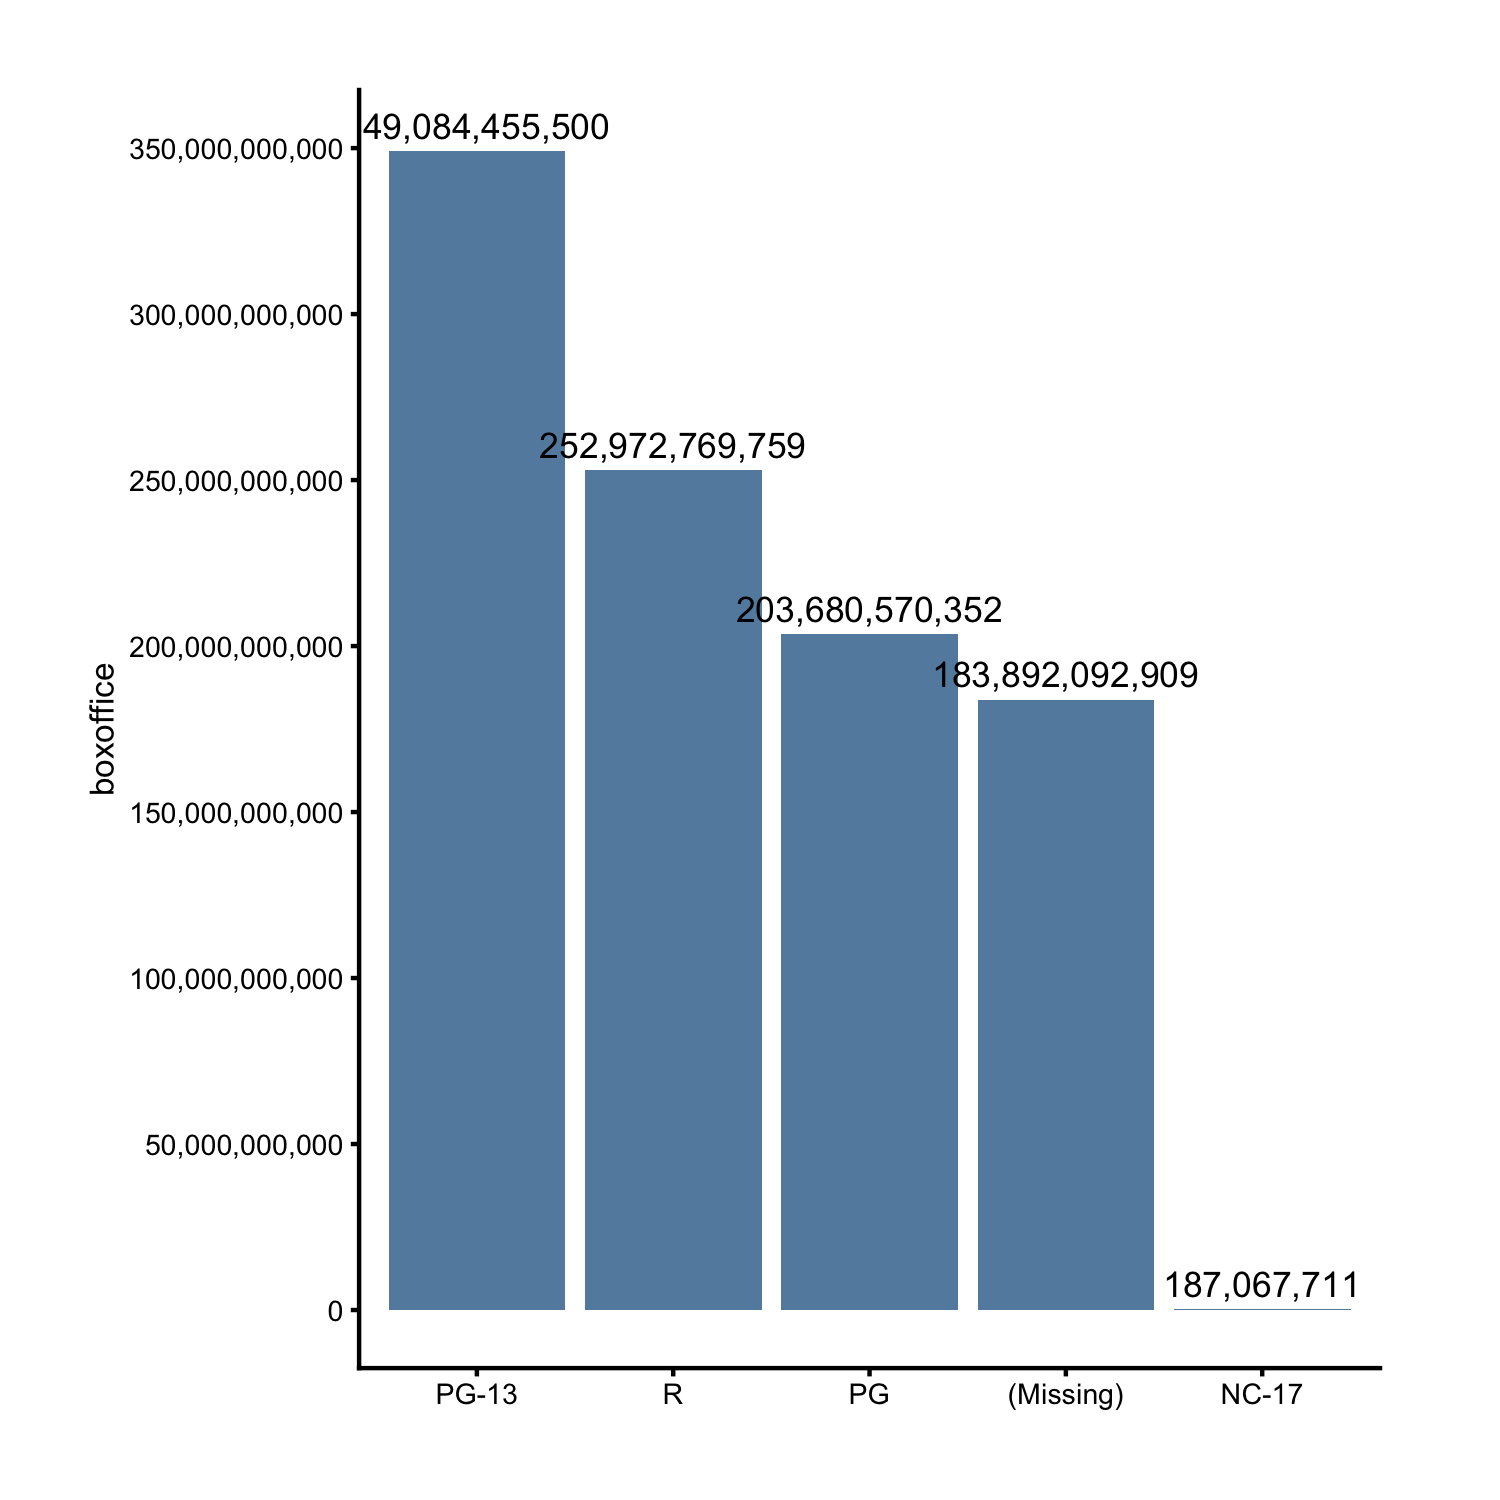
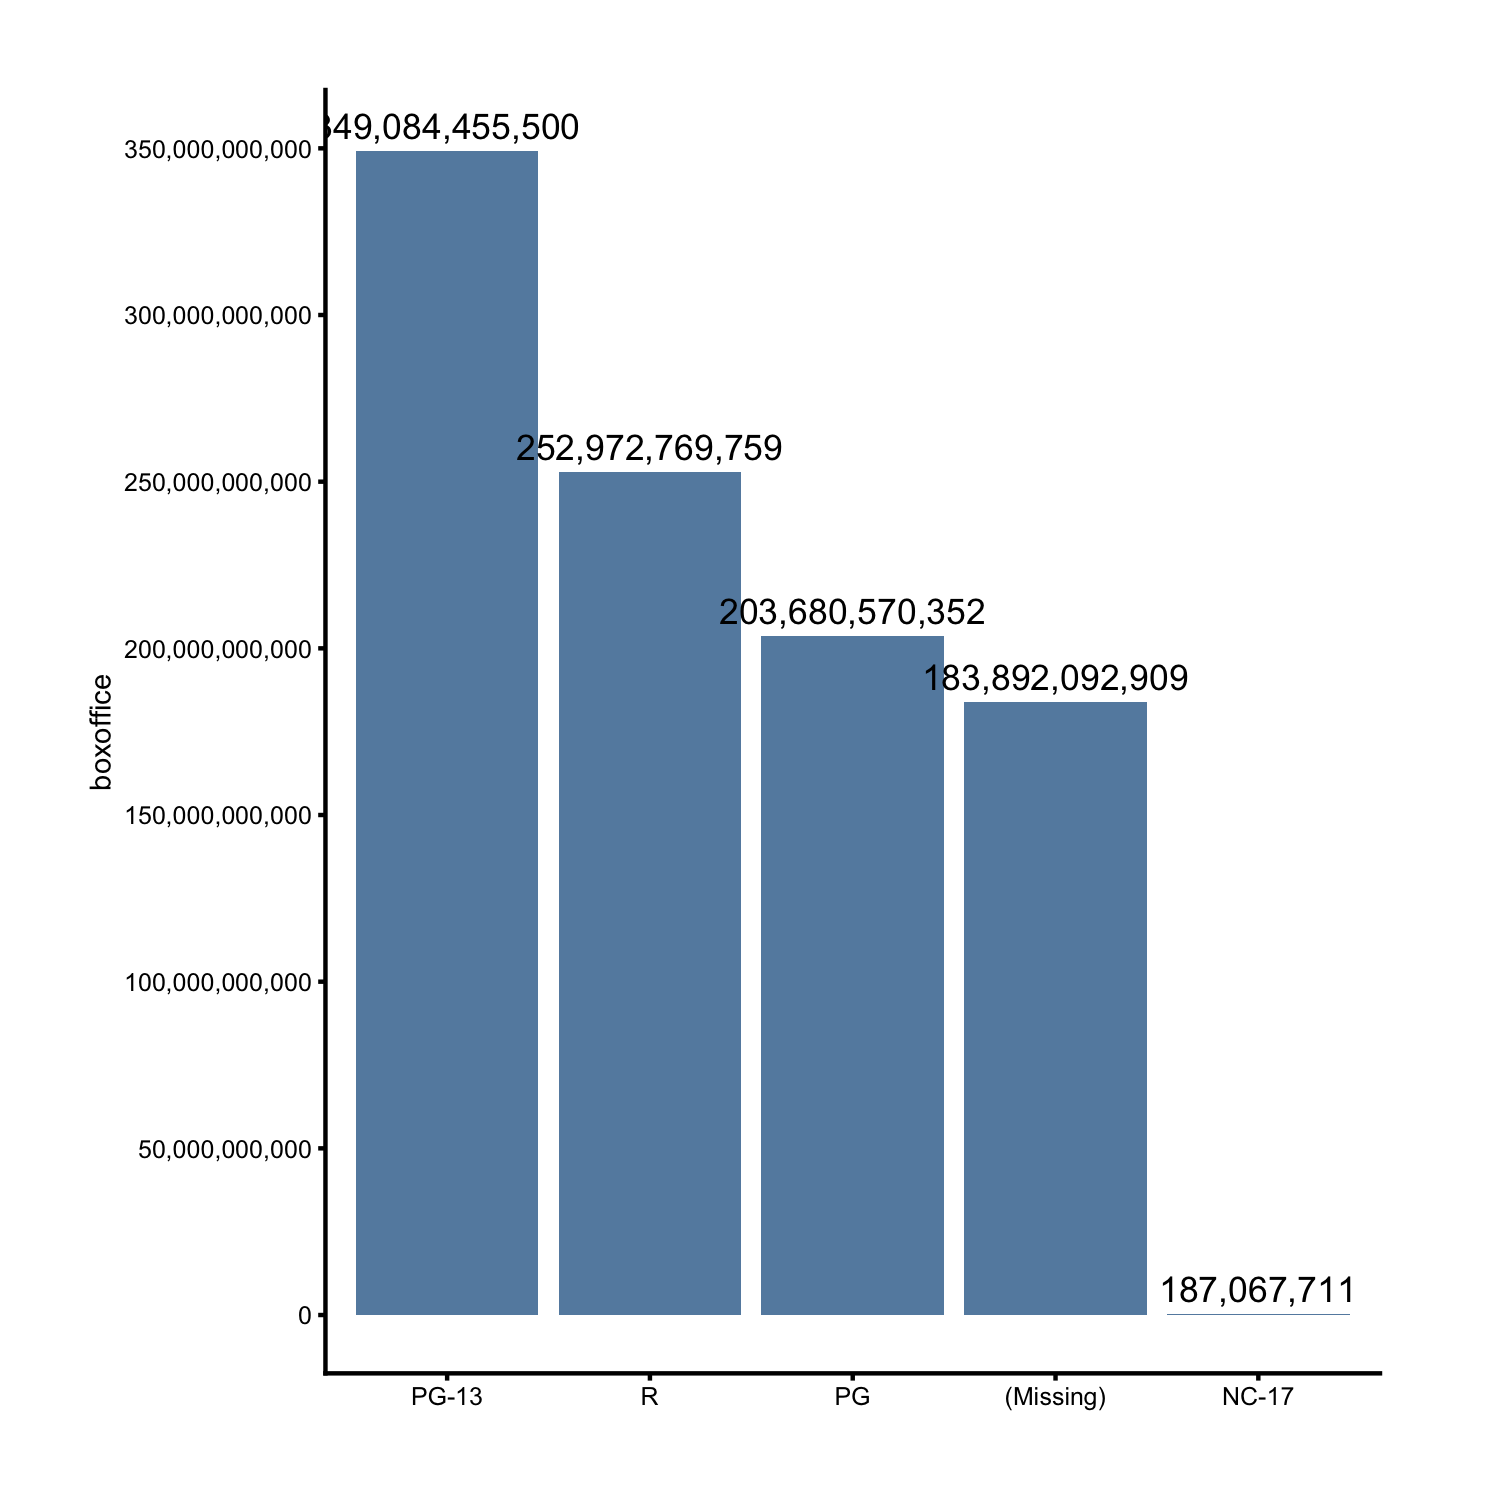
no message

Changed region(s): [[0.0613, 0.0613, 0.92, 0.9507]]

diff --git a/manuscript/04-01-regular-barchart.md b/manuscript/04-01-regular-barchart.md
@@ -83,7 +83,7 @@ To summarise, `mk_barplot_resp()` aggregates the y values for each x category be
 
 ```r
 plt = mk_barplot_resp(films)
-plt("mpaa", "boxoffice", xorder = "descend", font_size = 8, label_decimals = 0)
+plt("mpaa", "boxoffice", xorder = "descend", font_size = 7, label_decimals = 0)
 ```
 
 ![](images/barplot_mpaa_vs_bo-1.png)
